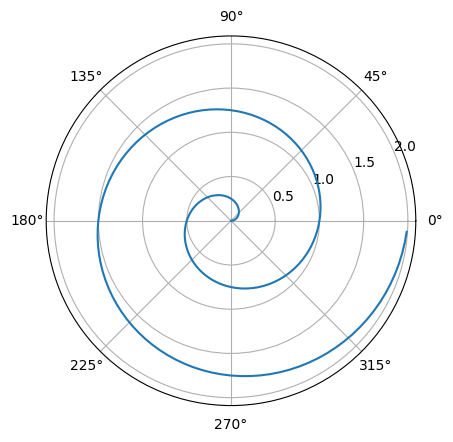
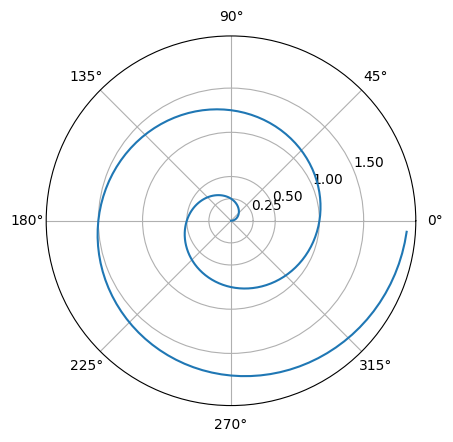
Built site for gh-pages

diff --git a/hello.html b/hello.html
@@ -97,7 +97,7 @@ pre > code.sourceCode > span > a:first-child::before { text-decoration: underlin
 <section id="polar-axis" class="level2">
 <h2 class="anchored" data-anchor-id="polar-axis">Polar Axis</h2>
 <p>For a demonstration of a line plot on a polar axis, see <a href="#fig-polar">Figure&nbsp;1</a>.</p>
-<div class="cell" data-execution_count="1">
+<div class="cell" data-execution_count="2">
 <details>
 <summary>Code</summary>
 <div class="sourceCode cell-code" id="cb1"><pre class="sourceCode python code-with-copy"><code class="sourceCode python"><span id="cb1-1"><a href="#cb1-1" aria-hidden="true" tabindex="-1"></a><span class="im">import</span> numpy <span class="im">as</span> np</span>
@@ -109,7 +109,7 @@ pre > code.sourceCode > span > a:first-child::before { text-decoration: underlin
 <span id="cb1-7"><a href="#cb1-7" aria-hidden="true" tabindex="-1"></a>  subplot_kw <span class="op">=</span> {<span class="st">'projection'</span>: <span class="st">'polar'</span>} </span>
 <span id="cb1-8"><a href="#cb1-8" aria-hidden="true" tabindex="-1"></a>)</span>
 <span id="cb1-9"><a href="#cb1-9" aria-hidden="true" tabindex="-1"></a>ax.plot(theta, r)</span>
-<span id="cb1-10"><a href="#cb1-10" aria-hidden="true" tabindex="-1"></a>ax.set_rticks([<span class="fl">0.5</span>, <span class="dv">1</span>, <span class="fl">1.5</span>, <span class="dv">2</span>])</span>
+<span id="cb1-10"><a href="#cb1-10" aria-hidden="true" tabindex="-1"></a>ax.set_rticks([<span class="fl">0.25</span>, <span class="fl">0.5</span>, <span class="dv">1</span>, <span class="fl">1.5</span>])</span>
 <span id="cb1-11"><a href="#cb1-11" aria-hidden="true" tabindex="-1"></a>ax.grid(<span class="va">True</span>)</span>
 <span id="cb1-12"><a href="#cb1-12" aria-hidden="true" tabindex="-1"></a>plt.show()</span></code><button title="Copy to Clipboard" class="code-copy-button"><i class="bi"></i></button></pre></div>
 </details>

diff --git a/index.html b/index.html
@@ -97,7 +97,7 @@ pre > code.sourceCode > span > a:first-child::before { text-decoration: underlin
 <section id="polar-axis" class="level2">
 <h2 class="anchored" data-anchor-id="polar-axis">Polar Axis</h2>
 <p>For a demonstration of a line plot on a polar axis, see <a href="#fig-polar">Figure&nbsp;1</a>.</p>
-<div class="cell" data-execution_count="1">
+<div class="cell" data-execution_count="2">
 <details>
 <summary>Code</summary>
 <div class="sourceCode cell-code" id="cb1"><pre class="sourceCode python code-with-copy"><code class="sourceCode python"><span id="cb1-1"><a href="#cb1-1" aria-hidden="true" tabindex="-1"></a><span class="im">import</span> numpy <span class="im">as</span> np</span>
@@ -109,7 +109,7 @@ pre > code.sourceCode > span > a:first-child::before { text-decoration: underlin
 <span id="cb1-7"><a href="#cb1-7" aria-hidden="true" tabindex="-1"></a>  subplot_kw <span class="op">=</span> {<span class="st">'projection'</span>: <span class="st">'polar'</span>} </span>
 <span id="cb1-8"><a href="#cb1-8" aria-hidden="true" tabindex="-1"></a>)</span>
 <span id="cb1-9"><a href="#cb1-9" aria-hidden="true" tabindex="-1"></a>ax.plot(theta, r)</span>
-<span id="cb1-10"><a href="#cb1-10" aria-hidden="true" tabindex="-1"></a>ax.set_rticks([<span class="fl">0.5</span>, <span class="dv">1</span>, <span class="fl">1.5</span>, <span class="dv">2</span>])</span>
+<span id="cb1-10"><a href="#cb1-10" aria-hidden="true" tabindex="-1"></a>ax.set_rticks([<span class="fl">0.25</span>, <span class="fl">0.5</span>, <span class="dv">1</span>, <span class="fl">1.5</span>])</span>
 <span id="cb1-11"><a href="#cb1-11" aria-hidden="true" tabindex="-1"></a>ax.grid(<span class="va">True</span>)</span>
 <span id="cb1-12"><a href="#cb1-12" aria-hidden="true" tabindex="-1"></a>plt.show()</span></code><button title="Copy to Clipboard" class="code-copy-button"><i class="bi"></i></button></pre></div>
 </details>
